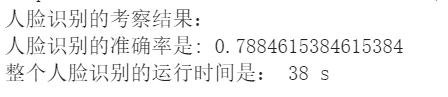
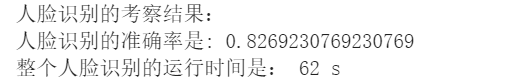
alomst finish

diff --git a/MAIN.tex b/MAIN.tex
@@ -134,7 +134,7 @@ Though MTCNN is very fast, but it sometimes go wrong and bring in dirty data, li
   \includegraphics[width=\columnwidth]{IMG/ML大作业筛选展示.png} %插入图片，[]中设置图片大小，{}中是图片文件名
   \label{Fig.RNN} %用于文内引用的标签
 \end{figure}
-So I refer to \textit{face.evoLVe's face-align tools} and finally get good data.
+So I turn to \textit{face.evoLVe's face-align tools} and finally get good data.
 This tool can be find at:
 \begin{center}
   \url{https://github.com/ZhaoJ9014/face.evoLVe.PyTorch}
@@ -382,14 +382,14 @@ With the chart above, I can qiuckly choose some combinations for Haorui-Net, and
 Epochs & Batch size& TP &Train FPS\\
 \midrule
 24 & 128 & 82 & 171.4\\
-32 & 128 & 76 & 255.5\\
+32 & 128 & 86 & 255.5\\
 \bottomrule
 \end{tabular}
 \end{table}
 
-Luckily, the Haorui-Net performs better than ResNet its best at 24 epochs, 128 batch size and reaches 82 true positive. This model was saved as  '24-epoch-128bz-MODIFIED-TEST82ACC.pb'.
+Luckily, the Haorui-Net performs better than ResNet its best at 24 epochs, 128 batch size and reaches 82 true positive. This model was saved as  '32-epoch-128bz-MODIFIED-TEST86ACC.pb'.
 
-So I'm proud to announce that Haorui-Net becomes the winner in this combination, with two more ture-positive!
+So I'm proud to announce that Haorui-Net becomes the winner in this combination, with ten more ture-positive!
 
 But what I want to point out is that, Haorui-Net is weaker in the decrease of loss, for ResNet, the minimum of loss is about 0.27 while training, but for Haorui-Net, the minimum loss is about 3.8, it probably means ResNet is designed more smarter in track and reduce the loss.
 
@@ -402,17 +402,37 @@ mtcnn = MTCNN(image_size=160,
         thresholds=[0.6,0.7,0.7],
         factor=0.709,post_process=True,device=device)
 \end{lstlisting}
-And the test of Face-Recognize shows:
+I load the best model of Haorui-Net and the test of Face-Recognize shows:
 \begin{figure}[H]%H为当前位置，!htb为忽略美学标准，htbp为浮动图形
   \centering
   \caption{Face Recognize Test}
 %可选参数中width=\columnwidth选取了当前列宽
-  \includegraphics[width=50ex]{IMG/人脸识别测试.png} %插入图片，[]中设置图片大小，{}中是图片文件名
+  \includegraphics[width=50ex]{IMG/新人脸识别测试.png} %插入图片，[]中设置图片大小，{}中是图片文件名
   \label{Fig.RNN} %用于文内引用的标签
 \end{figure}
-It takes about 0.3653 second per student for face recognize and the accuracy is 78.8$\%$ for the best model of "Haorui Net", not so bad.
+It takes about 0.46 second per student for face recognize and the accuracy is 82.7$\%$ for the best model of "Haorui Net", not so bad.
+
+But this result is slower than ResNet:
+\begin{figure}[H]%H为当前位置，!htb为忽略美学标准，htbp为浮动图形
+  \centering
+  \caption{Face Recognize Test}
+%可选参数中width=\columnwidth选取了当前列宽
+  \includegraphics[width=50ex]{IMG/人脸识别测试2.png} %插入图片，[]中设置图片大小，{}中是图片文件名
+  \label{Fig.RNN} %用于文内引用的标签
+\end{figure}
 
 
+
+For Face-Verification, I find that it takes too long to run the function because it have to check all the faces, so I just check the first 40 faces and get the results below:
+\begin{figure}[H]%H为当前位置，!htb为忽略美学标准，htbp为浮动图形
+  \centering
+  \caption{Face Verification Test}
+%可选参数中width=\columnwidth选取了当前列宽
+  \includegraphics[width=40ex]{IMG/人脸认证.png} %插入图片，[]中设置图片大小，{}中是图片文件名
+  \label{Fig.RNN} %用于文内引用的标签
+\end{figure}
+
+In conclusion, I test the Resnet and hand-modified Haorui-Net, all based on pretrained weights, finally Haorui-Net win the competition in accuracy. I use Adam optimizer because it performs best in minimising loss. For the best model, it takes about 0.46 second per student for face recognize and the accuracy is 82.7 $\%$.
 %%%%%%%%%%%%%%%%%%%%%%%%%%%%%%%%
 %%%%%%%%%%%%%%%%%%%%%%%%%%%%%%%%
 %%%%%%%%%%%%%%%%%%%%%%%%%%%%%%%%
